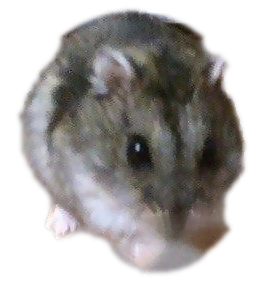
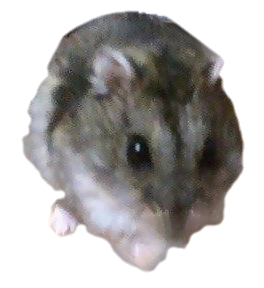
햄스터 키우기: 햄스터 누끼 다시 따기 (뒤 갈색 배경 제거, 테두리 정리)

diff --git a/hamster/index.html b/hamster/index.html
@@ -964,7 +964,7 @@ function paintArt() {
     const src = hamVariant(hi, v), dst = ham.querySelector('.v-' + v);
     dst.width = src.width; dst.height = src.height; dst.getContext('2d').drawImage(src, 0, 0);
   });
-  hi.src = 'ham.png?v=1';
+  hi.src = 'ham.png?v=2';
 }
 async function boot() {
   applyLang(); paintArt(); layout(); showGame(false);
